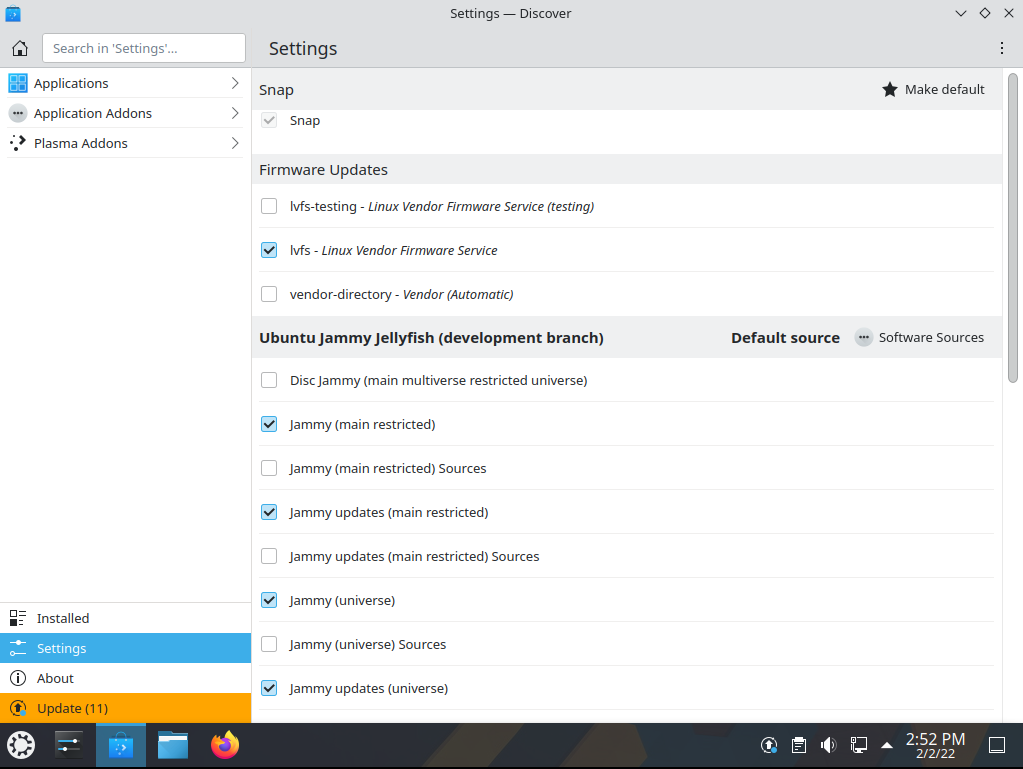
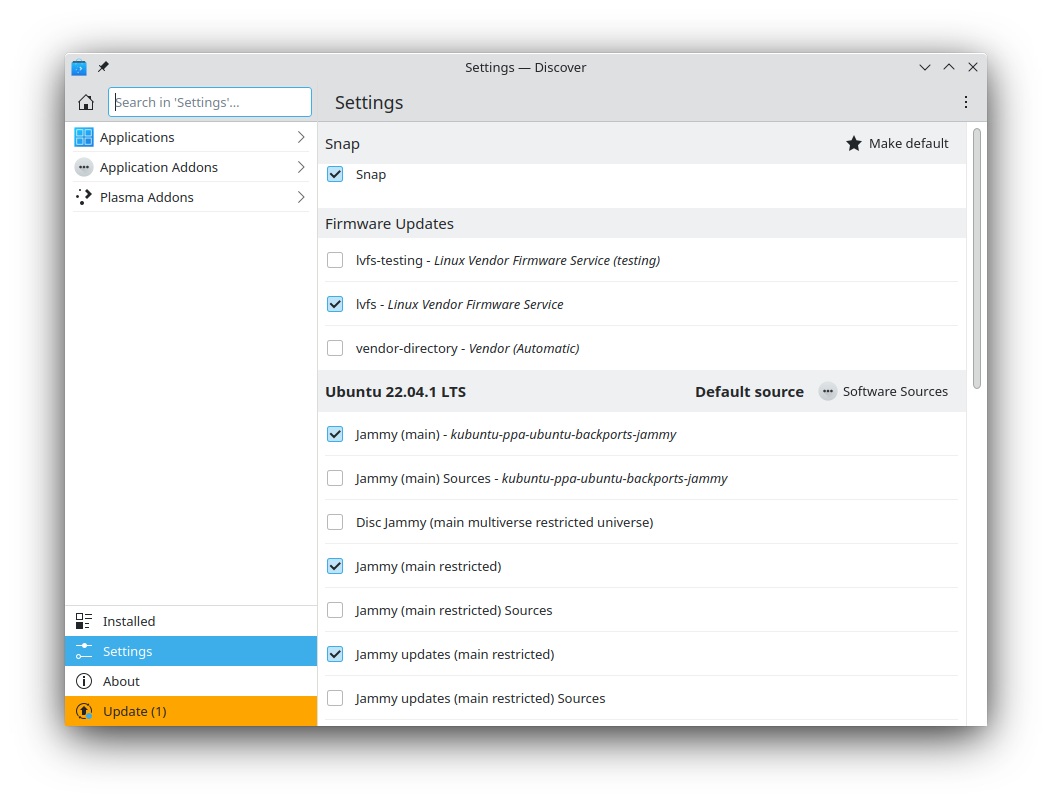
Fix issue #16

Changed region(s): [[0.0, 0.0, 1.0, 1.0], [0.2424, 0.5306, 0.6364, 0.5618]]

diff --git a/source/docs/desktop-guide/advanced.rst b/source/docs/desktop-guide/advanced.rst
@@ -92,7 +92,9 @@ You can now resize these widgets and lay them out on the desktop however you wis
 Drivers
 --------
 
-On every Operating System (Windows, macOS, and Linux) there are programs called Drivers which you install on your computer. These Drivers let your computer use new hardware or existing hardware, like `Wi-Fi <https://userbase.kde.org/Kubuntu/Basic#Wireless>`_. There Drivers also cover your graphics card e.g NVIDIA, AMD, sometimes the nonfree or restricted drivers let the cards perform better than the free ones. The 'Additional Drivers' section of Disocver handles installing and uninstalling these for you. These improvements may cover gaming, video editing and processing to image editing. 
+In every operating system (Windows, macOS, and Linux) there are programs called Drivers which let your computer work with specific hardware components, such as `Wi-Fi <https://userbase.kde.org/Kubuntu/Basic#Wireless>`_, graphics cards (NVIDIA, AMD...), etc. Sometimes nonfree or restricted Drivers let the hardware perform better than the free Drivers that come with Kubuntu. These improvements may cover gaming, video editing and processing to image editing.
+
+The ‘Additional Drivers’ section of the Discover program handles installing and uninstalling these nonfree or restricted Drivers for you.
 
 1. Start Discover 
 
@@ -100,9 +102,10 @@ On every Operating System (Windows, macOS, and Linux) there are programs called 
     :align: center
     :scale: 75 %
 
-2. Select Settings then left-click the 'Software Sources' button to the right of 'Ubuntu Jammy Jellyfish'
-3. Enter your administrative password at the prompt
-4. Left-click the 'Additional Drivers' tab 
+2. Select Settings
+3. Hover over 'Software Sources' then left-click it (it is to the right of 'Ubuntu 22.04.1. LTS Default source')
+4. Enter your administrative password at the prompt
+5. Left-click the 'Additional Drivers' tab
 
 .. image:: ../../images/jammy/advanced/drivers-hidpi.png
     :align: center
